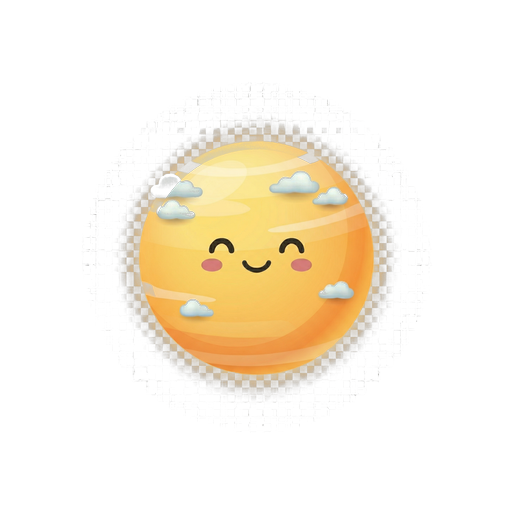
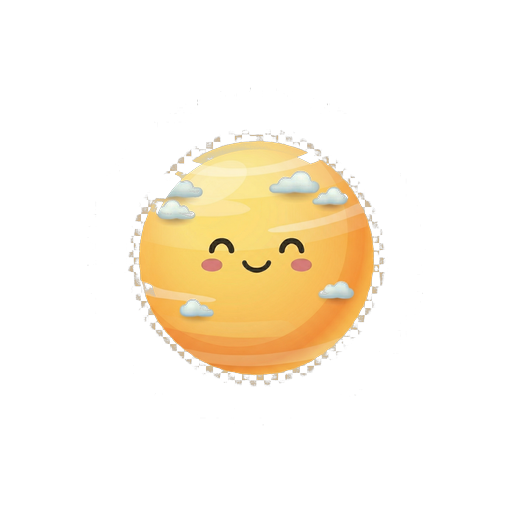
fix(assets): revert cleanImage threshold to 200 to restore asset sharpness
Threshold 10 preserved ring edges but also kept semi-transparent fringe
pixels on every asset, making all baked PNGs look blurry/low-res.

Reverting to 200 restores crisp edges.  Saturn/uranus ring body pixels
are fully opaque (alpha 255) so the rings survive; only anti-alias
edge pixels are zeroed, which is visually acceptable.

Changed region(s): [[0.2188, 0.2188, 0.7812, 0.7812]]

diff --git a/frontend/scripts/bake_sprites.py b/frontend/scripts/bake_sprites.py
@@ -62,12 +62,12 @@ THEMES = [
 # ---------------------------------------------------------------------------
 
 def clean_image(img: Image.Image) -> Image.Image:
-    """Zero RGBA for pixels with alpha < 10 (truly invisible noise only).
+    """Zero RGBA for pixels with alpha < 200 — mirrors runtime cleanImage().
 
-    The original runtime used a threshold of 200 to scrub JPEG compression
-    halos, but that also strips semi-transparent ring/halo pixels on clean
-    PNG assets (Saturn, Uranus).  A threshold of 10 removes only imperceptibly
-    invisible pixels while preserving fine transparency on rings and glows.
+    Scrubs JPEG compression halos and semi-transparent fringe so baked edges
+    stay crisp.  The saturn/uranus ring body pixels are fully opaque (alpha
+    255) and survive this threshold; only their feathered anti-alias edge
+    pixels are zeroed, which is acceptable.
     """
     img = img.convert("RGBA")
     pixels = img.load()
@@ -75,7 +75,7 @@ def clean_image(img: Image.Image) -> Image.Image:
     for y in range(h):
         for x in range(w):
             r, g, b, a = pixels[x, y]
-            if a < 10:
+            if a < 200:
                 pixels[x, y] = (0, 0, 0, 0)
     return img
 
